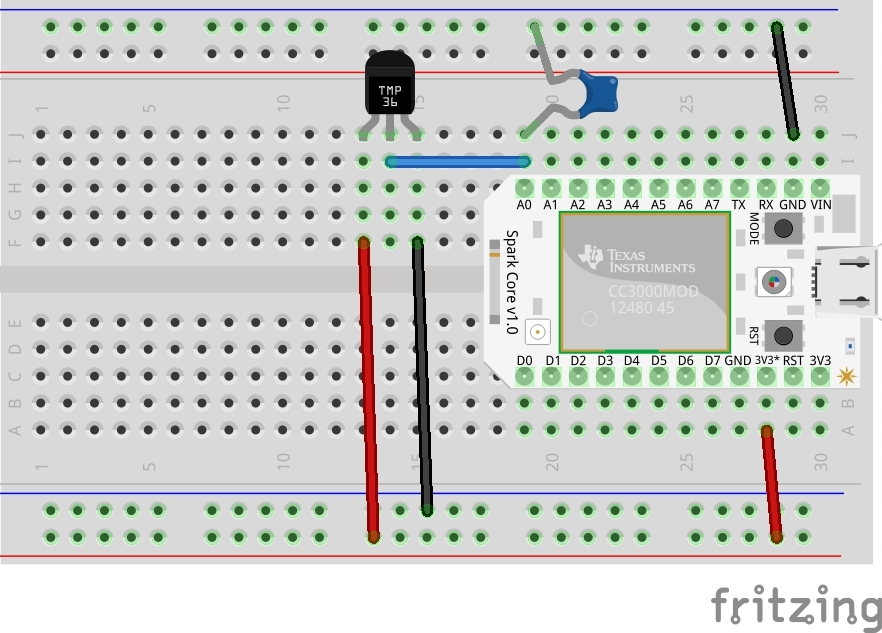
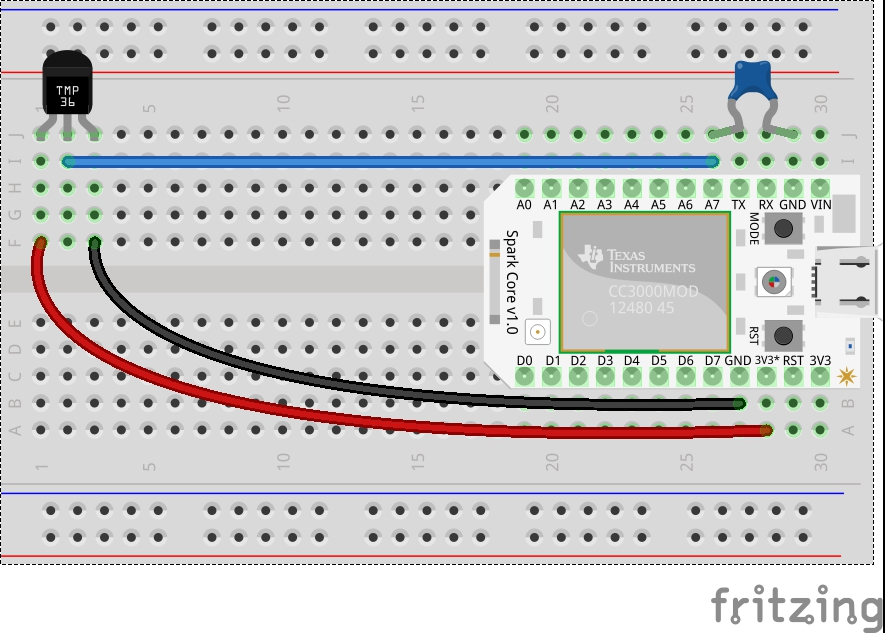
fixed tmp36 example

diff --git a/docs/examples.md b/docs/examples.md
@@ -165,7 +165,7 @@ In this example, we will hook up a temperature sensor to the Core and read the v
 
 We have used a widely available analog temperature called TMP36 from Analog Devices. You can download the [datasheet here.](http://www.analog.com/static/imported-files/data_sheets/TMP35_36_37.pdf)
 
-Notice how we are powering the sensor from 3.3V\* pin instead of the regular 3.3V. This is because the 3.3V\* pin gives out a (LC) clean filtered  voltage, ideal for analog applications like these. If the readings you get are noisy or inconsistent, add a 0.1uF (100nF) ceramic capacitor between the analog input pin (in this case,A0) and GND as shown in the set up.
+Notice how we are powering the sensor from 3.3V\* pin instead of the regular 3.3V. This is because the 3.3V\* pin gives out a (LC) clean filtered  voltage, ideal for analog applications like these. If the readings you get are noisy or inconsistent, add a 0.01uF (10nF) ceramic capacitor between the analog input pin (in this case,A7) and GND as shown in the set up. Ideally, the sensor should be placed away from the Core so that the heat dissipated by the Core does not affect the temperature readings.
 
 ```C++
 // -----------------
@@ -180,16 +180,16 @@ void setup()
   // Register a Spark variable here
   Spark.variable("temperature", &temperature, INT);
 
-  // Connect the temperature sensor to A0 and configure it
+  // Connect the temperature sensor to A7 and configure it
   // to be an input
-  pinMode(A0, INPUT);
+  pinMode(A7, INPUT);
 }
 
 void loop()
 {
   // Keep reading the temperature so when we make an API
   // call to read its value, we have the latest one
-  temperature = analogRead(A0);
+  temperature = analogRead(A7);
 }
 ```
 
